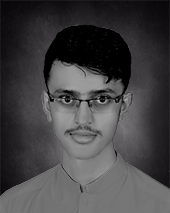
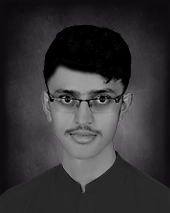
updated about page

diff --git a/about.html b/about.html
@@ -47,8 +47,8 @@
             </div>
         </nav>
         <div class="container hero" style="text-align: center;">
-            <h1 style="text-align: center;font-weight: bold;text-shadow: 5px 3px 12px rgb(0,4,95);">About me</h1>
-            <p style="text-shadow: 5px 3px 12px rgb(0,0,0);border-color: rgba(255,255,255,0);color: rgb(255,255,255);">I am a game developer and designer.</p>
+            <h1 style="text-align: center;font-weight: bold;text-shadow: 5px 3px 12px rgb(0,4,95);margin-top: 0px;">About me</h1><img src="assets/img/portrait.png" alt="Muneeb Ullah" style="box-shadow: 5px 5px 12px rgb(33, 37, 41);">
+            <p style="text-shadow: 5px 3px 12px rgb(0,0,0);border-color: rgba(255,255,255,0);color: rgb(255,255,255);margin-top: 20px;">Hi. I am Muneeb Ullah. I am a game developer and designer.</p>
             <h2 class="text-light" style="margin-top: 25px;">I am available on these platforms:</h2>
             <div class="social-icons" style="background: rgba(255,255,255,0);padding: 0;padding-bottom: 70px;padding-top: 15px;"><a href="https://www.linkedin.com/in/muneebullah47/" target="_blank"><i class="icon ion-social-linkedin" data-bss-hover-animate="jello" style="color: rgb(255,255,255);border-color: rgb(255,255,255);"></i></a><a href="https://github.com/Lucius47" target="_blank"><i class="icon ion-social-github" data-bss-hover-animate="jello" style="border-color: rgb(255,255,255);color: rgb(255,255,255);"></i></a><a href="https://join.skype.com/invite/xzLa4CUCpJeW" target="_blank"><i class="icon ion-social-skype" data-bss-hover-animate="jello" style="color: rgb(255,255,255);border-color: rgb(255,255,255);"></i></a><a href="https://www.instagram.com/muneeb.47/" target="_blank"><i class="icon ion-social-instagram" data-bss-hover-animate="jello" style="color: rgb(255,255,255);border-color: rgb(255,255,255);"></i></a></div>
             <section class="contact-clean" style="background: rgba(241,247,252,0);">
